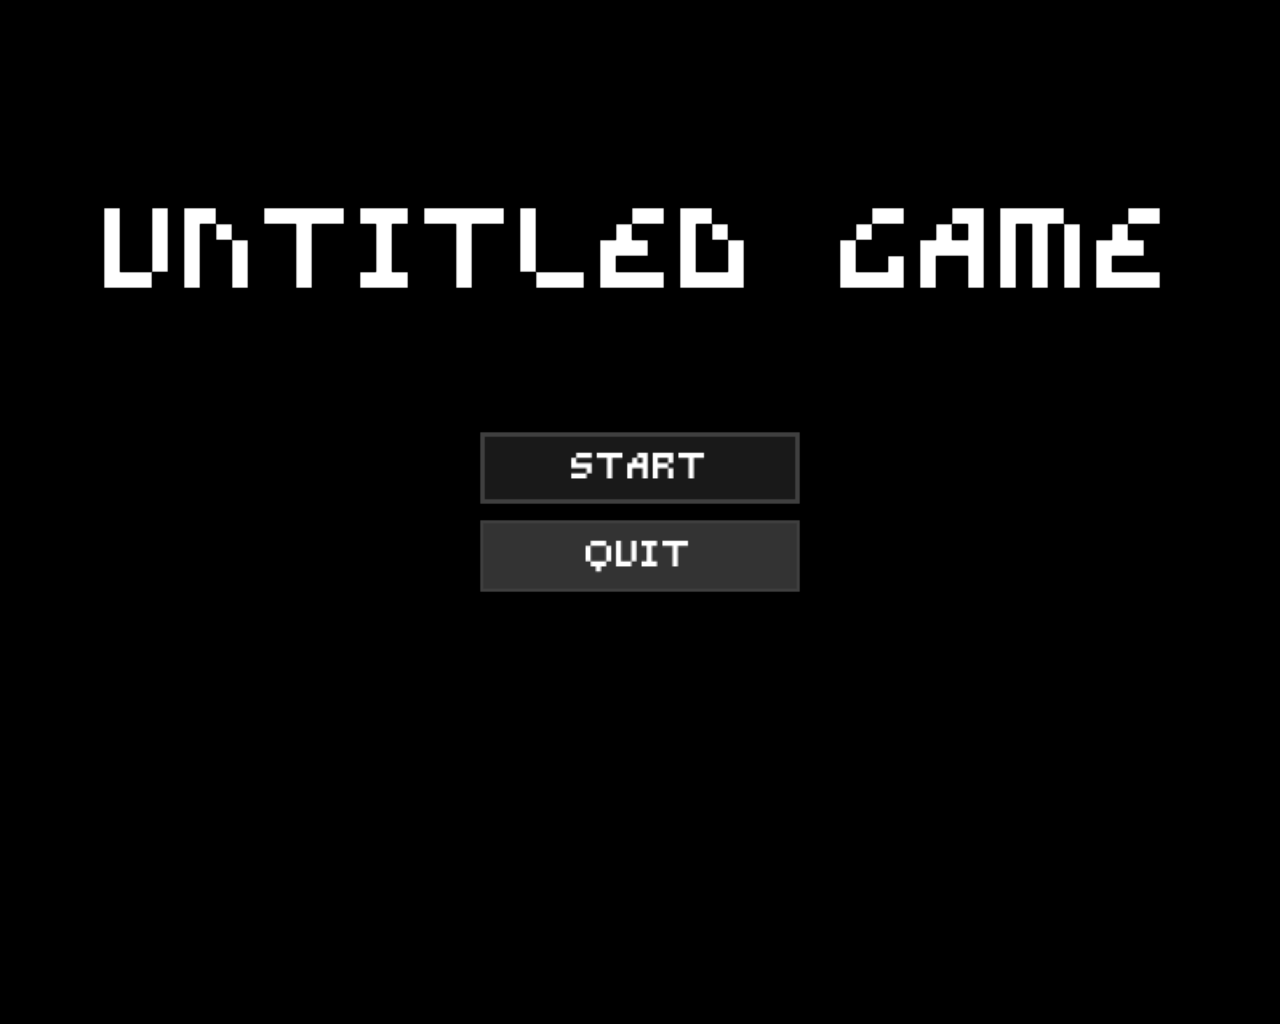
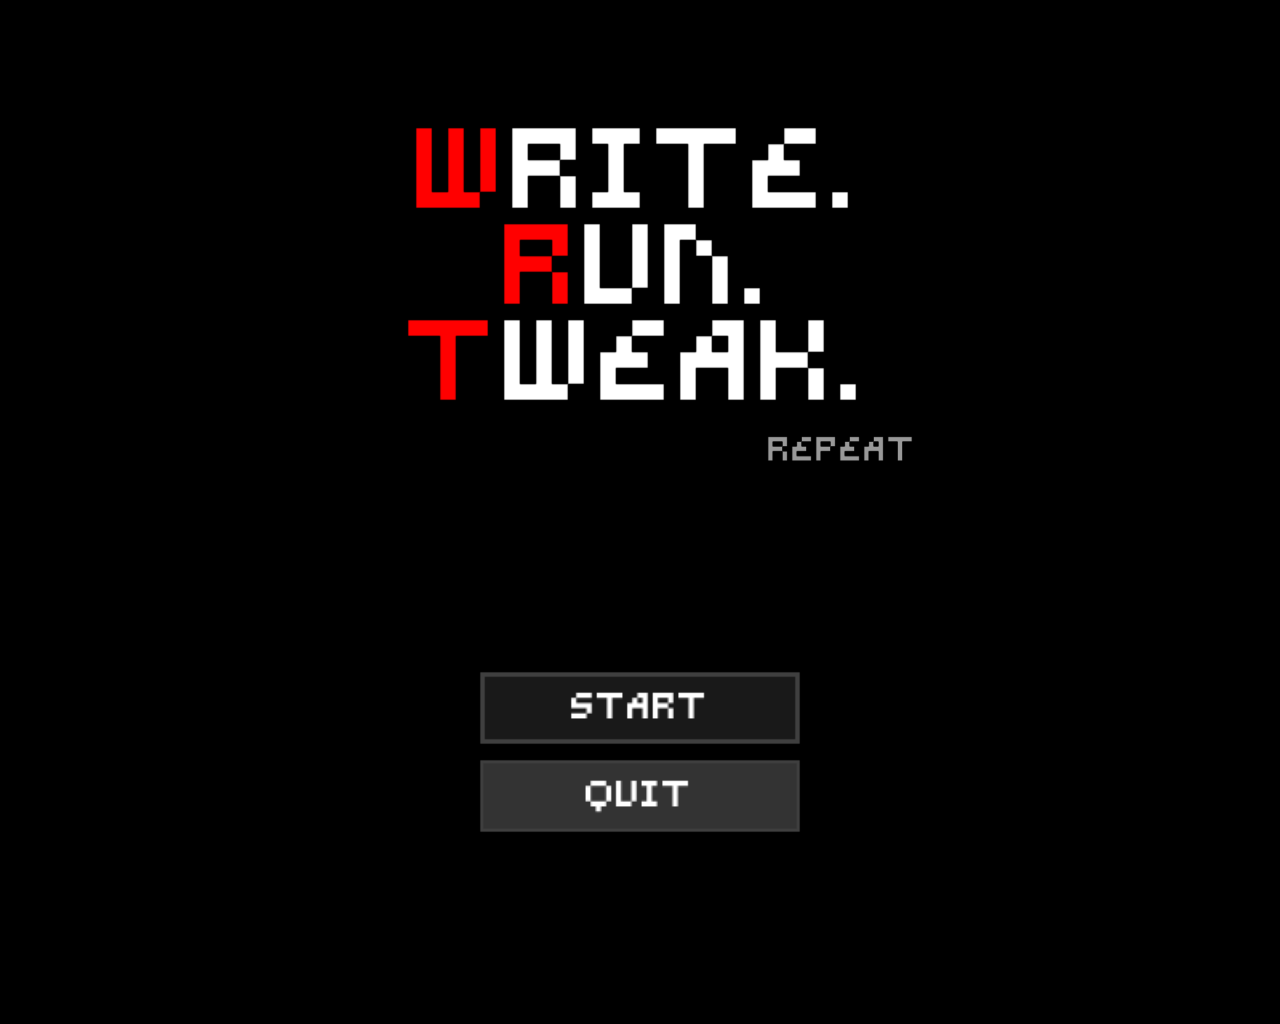
Change game name to WRT

Changed region(s): [[0.0625, 0.125, 0.9062, 0.5938], [0.375, 0.6562, 0.625, 0.8125]]

diff --git a/README.md b/README.md
@@ -1,6 +1,6 @@
-## Untitled game in Lua with Love `#GitHubGameOff`
-[![Build Status](https://travis-ci.org/UtkarshMe/UntitledGame.svg?branch=master)](https://travis-ci.org/UtkarshMe/UntitledGame)
-[![codecov](https://codecov.io/gh/UtkarshMe/UntitledGame/branch/master/graph/badge.svg)](https://codecov.io/gh/UtkarshMe/UntitledGame)
+## Write. Run. Tweak. (WRT) `#GitHubGameOff`
+[![Build Status](https://travis-ci.org/UtkarshMe/WRT.svg?branch=master)](https://travis-ci.org/UtkarshMe/WRT)
+[![codecov](https://codecov.io/gh/UtkarshMe/WRT/branch/master/graph/badge.svg)](https://codecov.io/gh/UtkarshMe/WRT)
 
 ### Shots!
 ![start screen](screenshots/start.png "Game Start Screen")
@@ -8,7 +8,7 @@
 
 ### Download
 The game is available to download for Windows or as source code from the
-[releases](https://github.com/UtkarshMe/UntitledGame/releases/latest) page.
+[releases](https://github.com/UtkarshMe/WRT/releases/latest) page.
 
 ### Dependencies
 - [Love2d](https://love2d.org/): as game engine
@@ -21,8 +21,8 @@ The game is available to download for Windows or as source code from the
 
 
 ### Documentation
-- code style guide: [`docs/style_guide.md`](https://github.com/UtkarshMe/UntitledGame/tree/master/docs/style_guide.md)
-- testing: [`docs/testing.md`](https://github.com/UtkarshMe/UntitledGame/tree/master/docs/testing.md)
+- code style guide: [`docs/style_guide.md`](https://github.com/UtkarshMe/WRT/tree/master/docs/style_guide.md)
+- testing: [`docs/testing.md`](https://github.com/UtkarshMe/WRT/tree/master/docs/testing.md)
 
 
 ### Build
